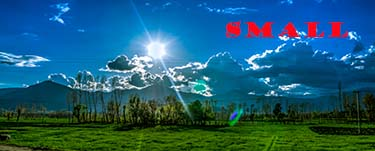
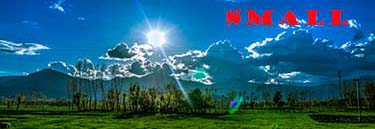
update

diff --git a/lesson6/preston.html b/lesson6/preston.html
@@ -56,12 +56,11 @@
                   images/herolarge.jpg 1100w,
                   "
                   >
-                  <figcaption>The photo</figcaption>
           </figure> 
           <section class="summary">
               <h2>Weather Summary</h2>
               <p>Currently Temperature is: <span id="temp">34</span>&deg;</p>
-              <p>Currently Wind speed is: <span id="speed">60</span>mph;</p>
+              <p>Currently Wind speed is: <span id="speed">60</span>mph</p>
               <p id="chill">message</p>
               
           </section>
@@ -148,7 +147,7 @@
     console.log(windchill);
 
     if(tempNumber<=50 && speedNumber > 3) {
-      document.getElementById("chill").textContent = "Wind Chill is"
+      document.getElementById("chill").textContent = "Wind Chill is: "
       +windchill+"\xB0F";
     } else {
       document.getElementById("chill").textContent = "No Wind Chill Today";

diff --git a/lesson6/css/small.css b/lesson6/css/small.css
@@ -8,10 +8,9 @@
 main {max-width:820px;margin:0 auto;}
 
 main figure.myphoto {
-    
-    margin: 0 0 0 1%;
+     margin: 0 0 0 1%;
 }
-main figure.myphoto img {width: 100%;}
+main figure.myphoto img {width: 92%;}
 main figure.myphoto figcaption {text-align: center;font-size: .75rem;}
 
 body {
@@ -80,7 +79,7 @@ h2 {
 
 .summary {
     position: absolute;
-    top: 87px;
+    top: 95px;
     left: 55px;
     background: radial-gradient(#eee, #f0e009);
 	border: 1px solid #000;

diff --git a/lesson6/js/windchill.js b/lesson6/js/windchill.js
@@ -1,1 +1,2 @@
    
+   
